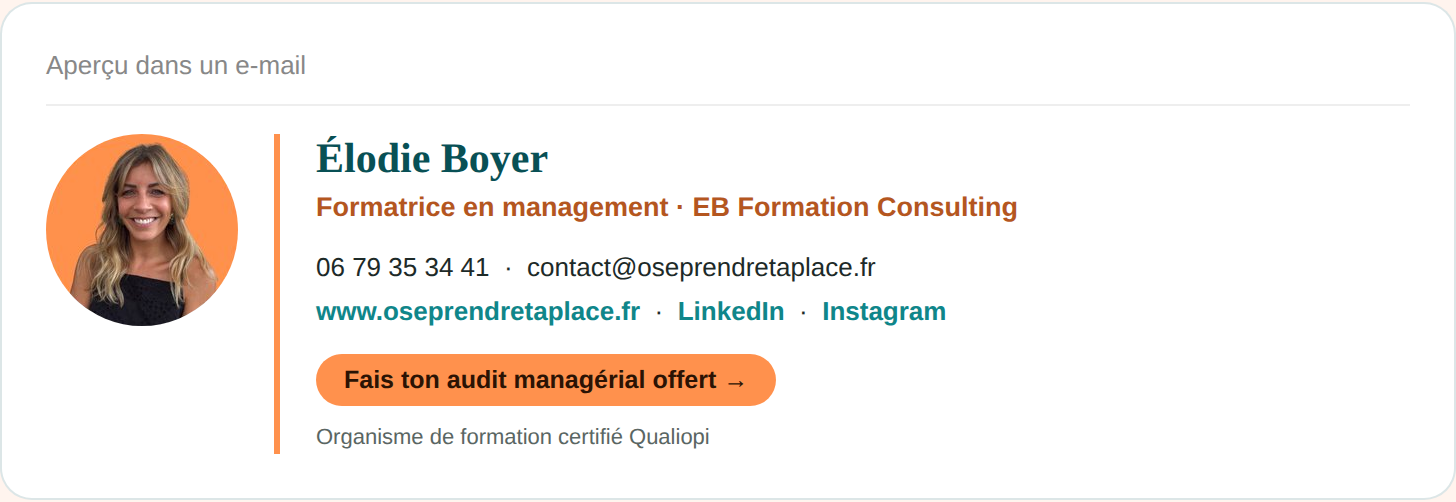
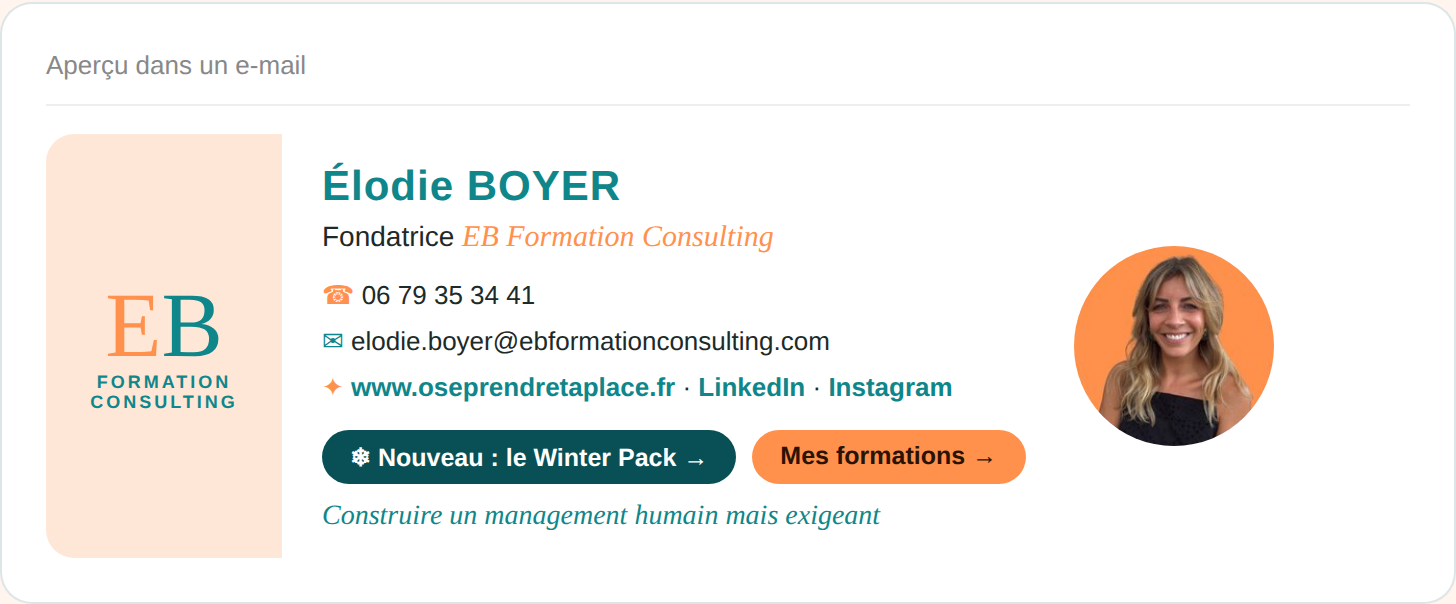
Email signature: inspired by the former one, Winter Pack button, no Qualiopi mention
Claude-Session: https://claude.ai/code/session_01XueLufGgnCKGFZbwKaVPai

diff --git a/site-ose/signature/signature.html b/site-ose/signature/signature.html
@@ -26,19 +26,26 @@ button:focus-visible{outline:3px solid var(--pine);outline-offset:2px}
 <div id="sig">
 <table cellpadding="0" cellspacing="0" border="0" style="border-collapse:collapse;font-family:Arial,Helvetica,sans-serif;color:#1D2A28;">
 <tr>
[1 lines of base64/hex data omitted]
-<td style="vertical-align:top;border-left:3px solid #FF914D;padding:0 0 0 18px;">
-<div style="font-family:Georgia,'Times New Roman',serif;font-size:21px;line-height:1.2;color:#085055;font-weight:bold;">Élodie Boyer</div>
-<div style="font-size:13.5px;line-height:1.5;color:#B4561F;font-weight:bold;padding-top:2px;">Formatrice en management · EB Formation Consulting</div>
-<div style="font-size:13px;line-height:1.7;color:#1D2A28;padding-top:8px;">
-<a href="tel:+33679353441" style="color:#1D2A28;text-decoration:none;">06 79 35 34 41</a>&nbsp;&nbsp;·&nbsp;&nbsp;<a href="mailto:contact@oseprendretaplace.fr" style="color:#1D2A28;text-decoration:none;">contact@oseprendretaplace.fr</a><br>
-<a href="https://www.oseprendretaplace.fr" style="color:#0F868A;text-decoration:none;font-weight:bold;">www.oseprendretaplace.fr</a>&nbsp;&nbsp;·&nbsp;&nbsp;<a href="https://www.linkedin.com/in/elodie-boyer-299891143/" style="color:#0F868A;text-decoration:none;font-weight:bold;">LinkedIn</a>&nbsp;&nbsp;·&nbsp;&nbsp;<a href="https://www.instagram.com/elodie_boyer_off_management/" style="color:#0F868A;text-decoration:none;font-weight:bold;">Instagram</a>
+<td style="vertical-align:middle;background:#FFE7D8;border-radius:14px 0 0 14px;padding:18px 20px;text-align:center;width:118px;">
+<a href="https://www.oseprendretaplace.fr" style="text-decoration:none;"><span style="font-family:Georgia,'Times New Roman',serif;font-size:46px;line-height:1;color:#FF914D;">E</span><span style="font-family:Georgia,'Times New Roman',serif;font-size:46px;line-height:1;color:#0F868A;">B</span><br><span style="font-size:9px;letter-spacing:1.5px;color:#0F868A;font-weight:bold;">FORMATION<br>CONSULTING</span></a>
+</td>
+<td style="vertical-align:top;padding:14px 18px 12px 20px;">
+<div style="font-size:21px;line-height:1.2;color:#0F868A;font-weight:bold;letter-spacing:.5px;">Élodie BOYER</div>
+<div style="font-size:14px;line-height:1.4;color:#1D2A28;padding-top:3px;">Fondatrice <span style="font-family:Georgia,'Times New Roman',serif;font-style:italic;color:#FF914D;font-size:15px;">EB Formation Consulting</span></div>
+<div style="font-size:13px;line-height:1.75;color:#1D2A28;padding-top:7px;">
+<span style="color:#FF914D;">&#9742;</span>&nbsp;<a href="tel:+33679353441" style="color:#1D2A28;text-decoration:none;">06 79 35 34 41</a><br>
+<span style="color:#0F868A;">&#9993;</span>&nbsp;<a href="mailto:elodie.boyer@ebformationconsulting.com" style="color:#1D2A28;text-decoration:none;">elodie.boyer@ebformationconsulting.com</a><br>
+<span style="color:#FF914D;">&#10022;</span>&nbsp;<a href="https://www.oseprendretaplace.fr" style="color:#0F868A;text-decoration:none;font-weight:bold;">www.oseprendretaplace.fr</a>&nbsp;·&nbsp;<a href="https://www.linkedin.com/in/elodie-boyer-299891143/" style="color:#0F868A;text-decoration:none;font-weight:bold;">LinkedIn</a>&nbsp;·&nbsp;<a href="https://www.instagram.com/elodie_boyer_off_management/" style="color:#0F868A;text-decoration:none;font-weight:bold;">Instagram</a>
 </div>
-<table cellpadding="0" cellspacing="0" border="0" style="border-collapse:collapse;margin-top:10px;"><tr>
-<td style="background:#FF914D;border-radius:16px;padding:6px 14px;"><a href="https://auditmanagerial.oseprendretaplace.fr/" style="font-size:12.5px;font-weight:bold;color:#2B1304;text-decoration:none;">Fais ton audit managérial offert&nbsp;→</a></td>
+<table cellpadding="0" cellspacing="0" border="0" style="border-collapse:collapse;margin-top:9px;"><tr>
+<td style="background:#085055;border-radius:16px;padding:6px 14px;"><a href="https://winterpack.oseprendretaplace.fr/" style="font-size:12.5px;font-weight:bold;color:#FFFFFF;text-decoration:none;">&#10052; Nouveau : le Winter Pack&nbsp;→</a></td>
+<td style="width:8px;"></td>
+<td style="background:#FF914D;border-radius:16px;padding:6px 14px;"><a href="https://www.oseprendretaplace.fr/formations" style="font-size:12.5px;font-weight:bold;color:#2B1304;text-decoration:none;">Mes formations&nbsp;→</a></td>
 </tr></table>
-<div style="font-size:11px;line-height:1.5;color:#5A6663;padding-top:8px;">Organisme de formation certifié Qualiopi</div>
-</td></tr></table>
+<div style="font-family:Georgia,'Times New Roman',serif;font-style:italic;font-size:14px;color:#0F868A;padding-top:9px;">Construire un management humain mais exigeant</div>
+</td>
[1 lines of base64/hex data omitted]
+</tr></table>
 </div></div>
 <div class="btns"><button type="button" id="copy">Copier la signature</button></div>
 <section class="steps"><h2>Dans Gmail</h2><ol>
@@ -49,7 +56,7 @@ button:focus-visible{outline:3px solid var(--pine);outline-offset:2px}
 <section class="steps"><h2>Dans Outlook</h2><ol>
 <li>Paramètres → Comptes → Signatures → « Nouvelle signature ».</li>
 <li>Colle la signature, choisis-la pour les nouveaux messages, puis enregistre.</li></ol></section>
-<p class="tip">Si le bouton ne copie rien, sélectionne la signature à la souris dans l’aperçu, du haut de la photo jusqu’à « Qualiopi », puis fais Ctrl+C.</p>
+<p class="tip">Si le bouton ne copie rien, sélectionne la signature à la souris dans l’aperçu, du logo EB jusqu’à la phrase « Construire un management humain mais exigeant », puis fais Ctrl+C.</p>
 </main>
 <script>
 document.getElementById('copy').addEventListener('click',function(){
